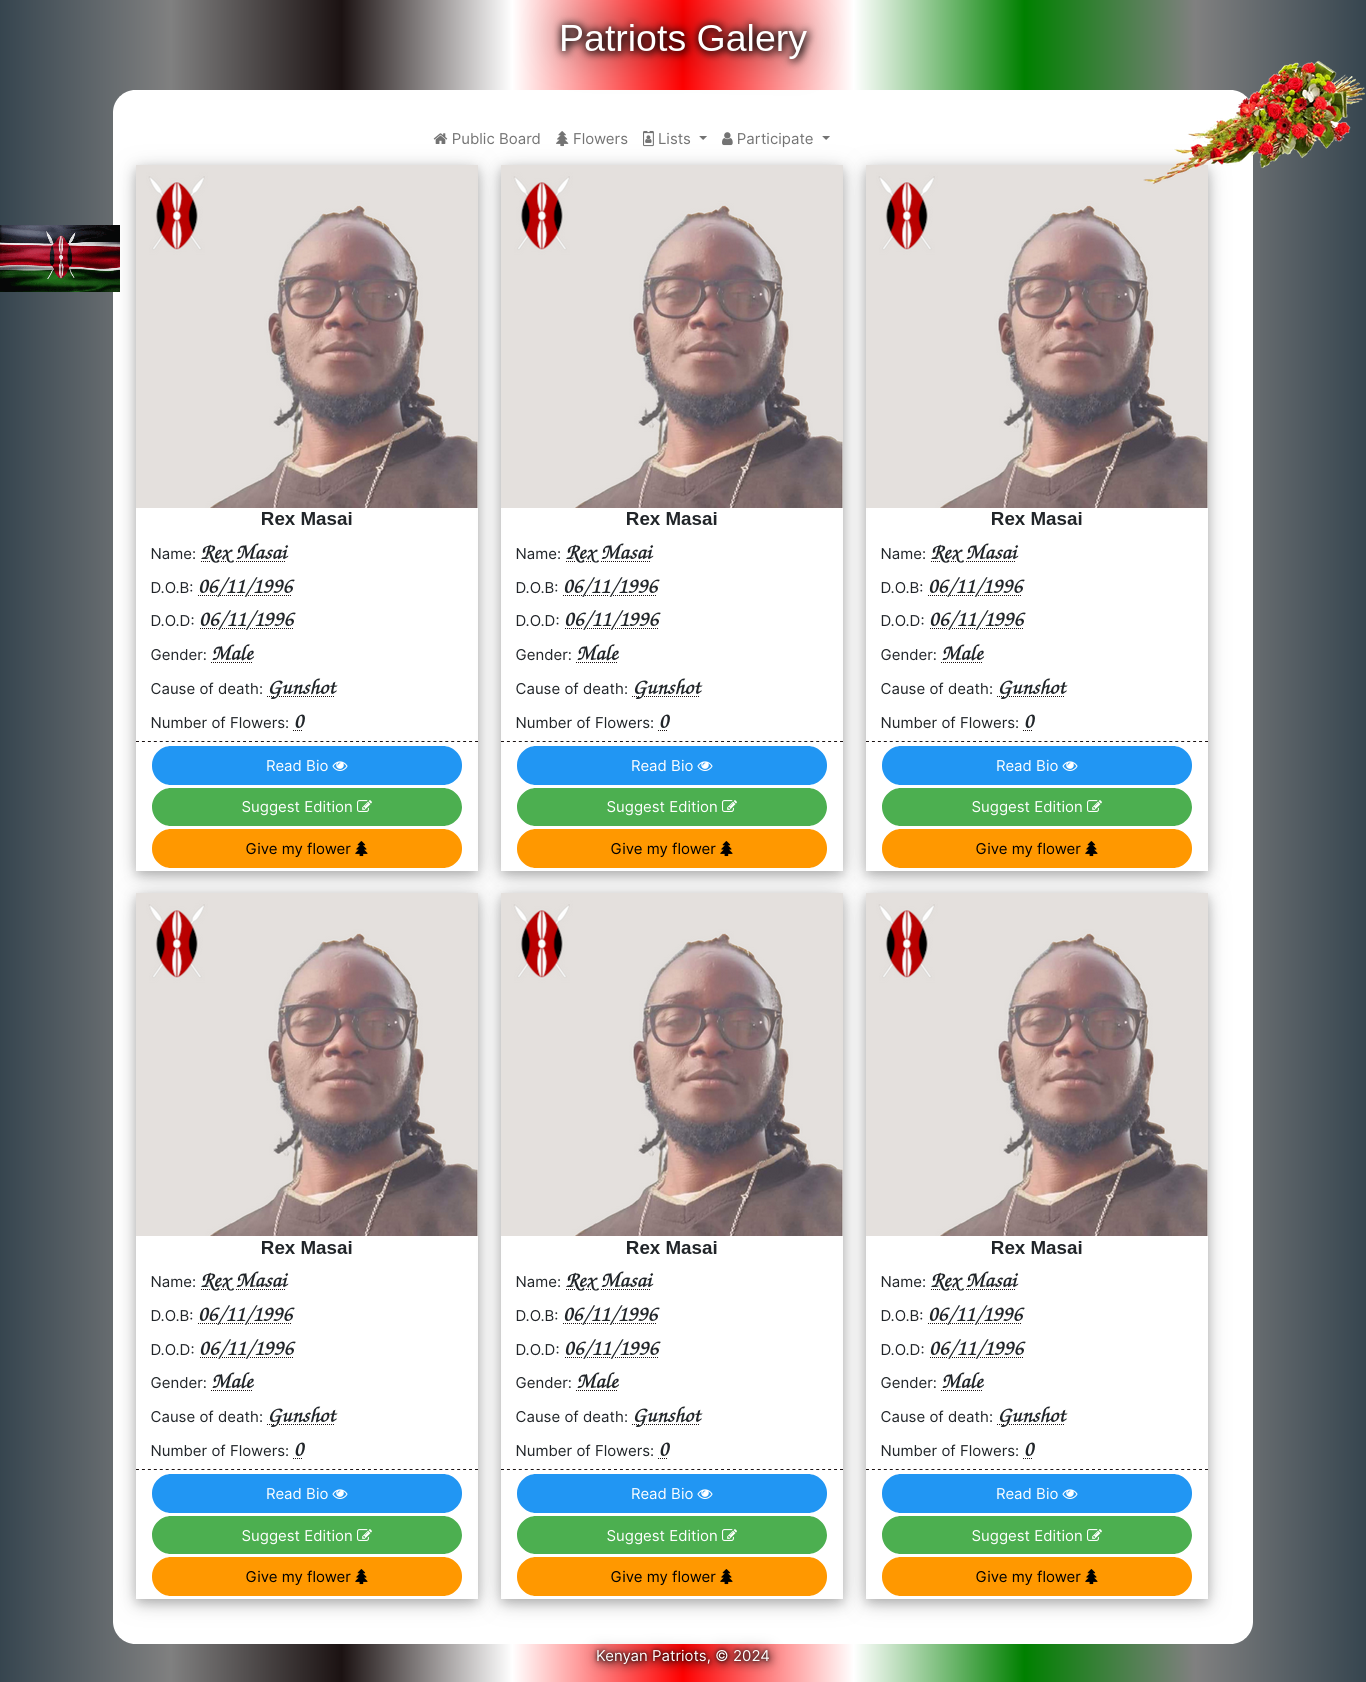
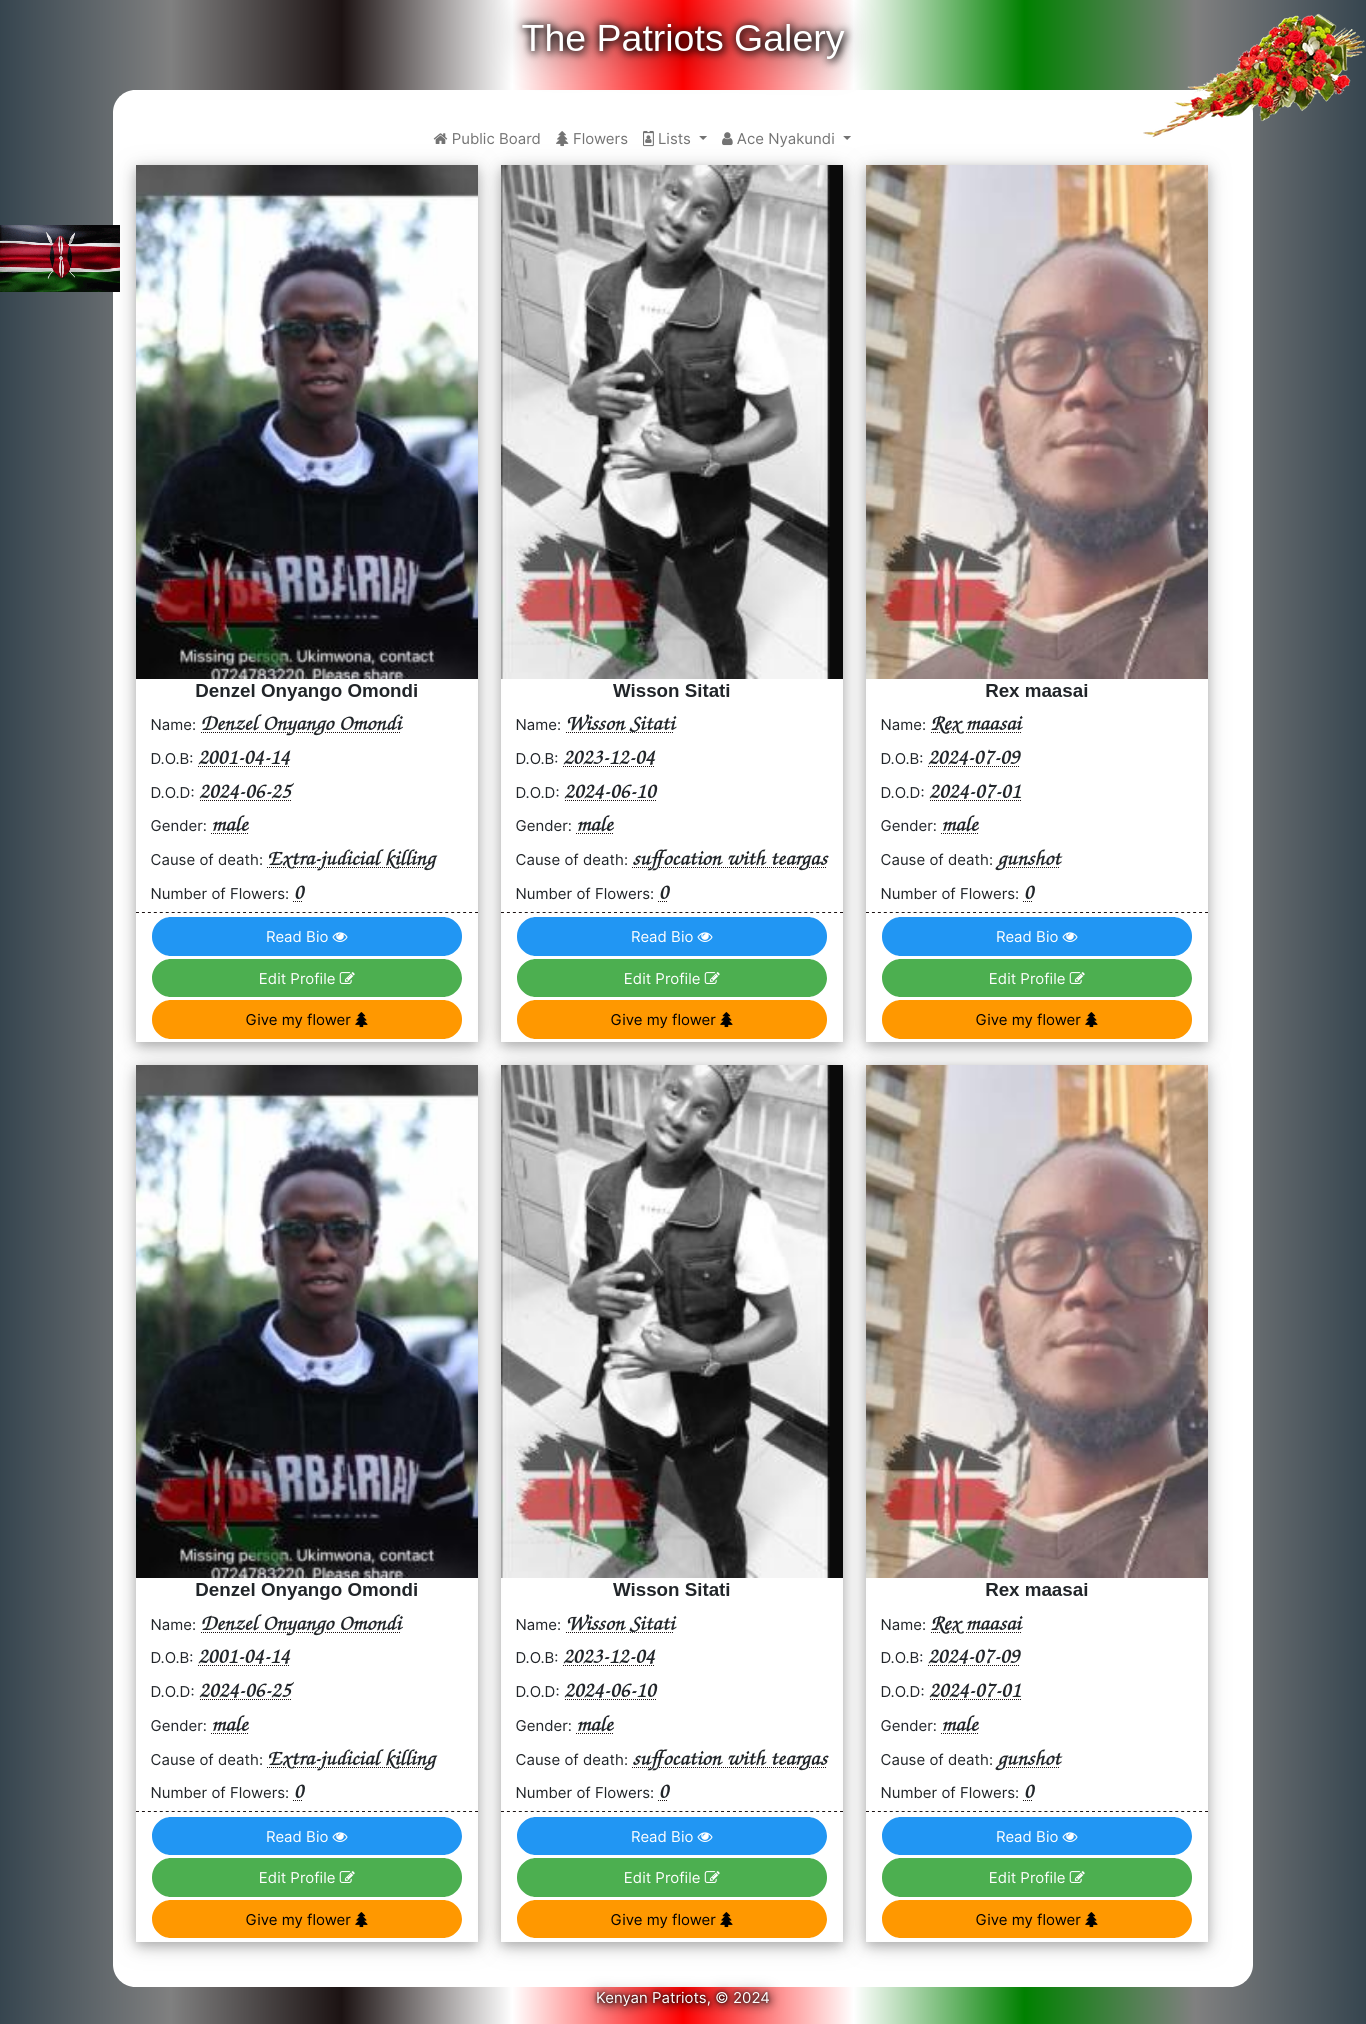
updated gallery

diff --git a/resources/views/people/index.blade.php b/resources/views/people/index.blade.php
@@ -43,5 +43,41 @@
 			</div>
 		@endforeach
 
+		@foreach($patriots as $patriot)
+			<div class="col-md-4 col-sm-6 col-xs-12 pat-card">
+				 <div class="w3-card-4">
+				  <img src="{{ asset('/uploads/patriots/'.$patriot->image) }}" alt="Rex Masai" class="patriot-image">
+				  <div class="w3-container w3-center">
+				  	<h5 class="bolden">{{ $patriot->name }}</h5>
+				  </div>
+				  <div class="w3-container details-section">
+				  	<span class="pat-label">Name:</span> <span class="pat-value">{{ $patriot->name }} </span><br>
+				  	<span class="pat-label">D.O.B:</span> <span class="pat-value">{{ $patriot->date_of_birth }} </span><br>
+				  	<span class="pat-label">D.O.D:</span> <span class="pat-value">{{ $patriot->date_of_death }} </span><br>
+				  	<span class="pat-label">Gender:</span> <span class="pat-value">{{ $patriot->gender }} </span><br>
+				  	<span class="pat-label">Cause of death:</span> <span class="pat-value"> {{ $patriot->cause_of_death }} </span><br>
+				  	<span class="pat-label">Number of Flowers:</span> <span class="pat-value"> 0 </span><br>
+				  </div>
+				  <div class="w3-container w3-center pat-buttons">
+				  	<button class="w3-round w3-round-xxlarge w3-button w3-blue w3-hover-aqua"
+				  	onclick="location.href='{{ route('patriot.show',$patriot->id) }}'">
+				  		Read Bio <i class="fa fa-eye"></i></button>
+
+				  		<!-- Allow direct edit to the one who added the info -->
+				  		@if((Auth::check()) && ($patriot->user->name == Auth::user()->name))
+  					<button class="w3-round w3-round-xxlarge w3-button w3-green w3-hover-aqua">
+  						Edit Profile <i class="fa fa-edit"></i></button>
+  						@else
+  					<button class="w3-round w3-round-xxlarge w3-button w3-green w3-hover-aqua">
+  						Suggest Edition <i class="fa fa-edit"></i></button>
+  						@endif
+  					<button class="w3-round w3-round-xxlarge w3-button w3-orange w3-hover-aqua">
+  						Give my flower <i class="fa fa-tree"></i></button>
+				  </div>
+				</div> 
+			</div>
+		@endforeach
+
+
 	</div>
 @endsection
